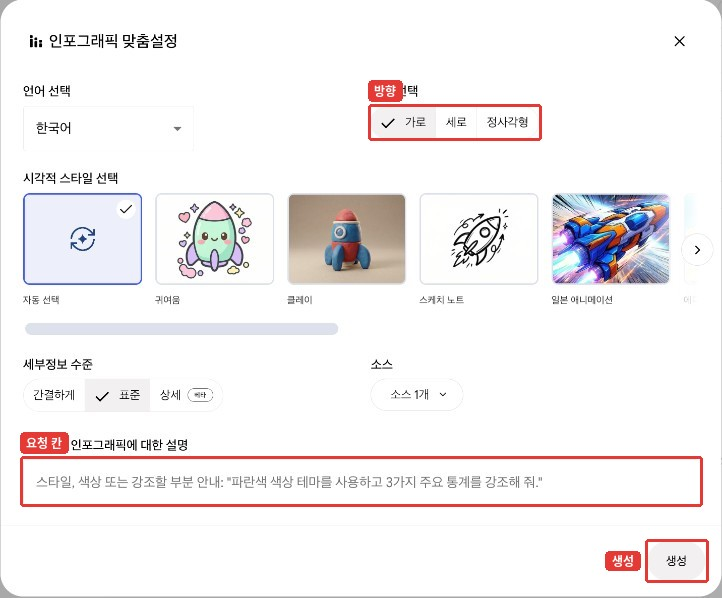
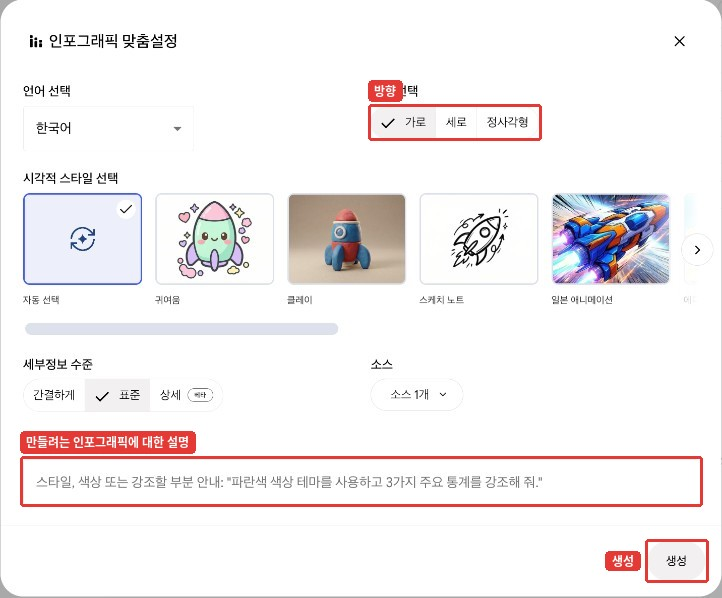
261019 ChatGPT판: 체크리스트 전부 삭제, 구조·기준·진행표·문구 불일치 수정
Claude-Session: https://claude.ai/code/session_01T8rxqCJjyJ7JfxFAjQgpPQ

Changed region(s): [[0.0305, 0.7224, 0.2742, 0.7826]]

diff --git a/261019-ai-report-chatgpt/index.html b/261019-ai-report-chatgpt/index.html
@@ -283,7 +283,7 @@ aside nav a.active{border-left-color:var(--blue)}
 <div class="side-sub">10.19(월) · 10.22(목) · 10:00–17:00</div>
 </div>
 <nav>
-<div class="nav-title">전체 목차</div><div class="grp"><div class="grp-label">교육 안내</div><a class="l2" href="#overview">교육 개요</a><a class="l2" href="#prep">수업 전 준비</a><a class="l3" href="#prep-1">실습 파일</a><a class="l2" href="#timetable">타임테이블</a></div><div class="grp"><div class="grp-label">세션 1</div><a class="l2" href="#s1">생성형 AI와 문서 작성 개요</a><a class="l3" href="#s1-1">1-1. 시작 전: ChatGPT 화면 살펴보고 맞추기</a><a class="l3" href="#s1-2">1-2. 기존 문서 작성 vs AI 활용 비교</a><a class="l3" href="#s1-3">1-3. 공공기관 업무에 맞는 AI 도구</a><a class="l3" href="#s1-4">1-4. AI에게 쉽게 말 걸기: 역할·맥락·작업·형식</a></div><div class="grp"><div class="grp-label">세션 2</div><a class="l2" href="#s2">웹 브라우징 &amp; 긴 문서 파일 분석</a><a class="l3" href="#s2-1">2-1. [웹 검색]으로 최근 정책·동향 수집</a><a class="l3" href="#s2-2">2-2. PDF·한글·엑셀 파일 첨부하고 핵심 3줄 요약받기</a><a class="l3" href="#s2-3">2-3. 출처 확인과 환각(Hallucination) 방지 기초</a></div><div class="grp"><div class="grp-label">세션 3</div><a class="l2" href="#s3">Projects 기능 &amp; 공공 행정 문체 변환</a><a class="l3" href="#s3-1">3-1. 보고서·기획서 기본 구조</a><a class="l3" href="#s3-2">3-2. Projects로 자주 쓰는 지침 고정하기</a><a class="l3" href="#s3-3">3-3. 보고서 뼈대(서론-본론-결론) 자동 생성</a><a class="l3" href="#s3-4">3-4. 개조식 문체·표준 서식으로 교정하고 Word·PDF로 받기</a><a class="l3" href="#s3-5">3-5. 섹션 간 일관성 점검</a></div><div class="grp"><div class="grp-label">세션 4</div><a class="l2" href="#s4">데이터 분석 &amp; 인포그래픽 변환</a><a class="l3" href="#s4-1">4-1. 데이터 파일 올리고 시트 화면으로 보기</a><a class="l3" href="#s4-2">4-2. 데이터 요약: 점검 후 자주 쓰는 분석 4가지</a><a class="l3" href="#s4-3">4-3. 보고서 삽입용 깔끔한 표·차트 구성법</a><a class="l3" href="#s4-4">4-4. 글을 인포그래픽·도식으로 바꾸기 (NotebookLM)</a></div><div class="grp"><div class="grp-label">세션 5</div><a class="l2" href="#s5">가이드 기반 실무 기획서 제작 실습</a><a class="l3" href="#s5-1">5-1. 실무 예시 주제 정하고 업무 흐름 스케치하기</a><a class="l3" href="#s5-2">5-2. 3단계로 진행하기: 자료 수집·요약 → 초안 → 문체·시각화</a><a class="l3" href="#s5-3">5-3. 단계별 템플릿</a><a class="l3" href="#s5-4">5-4. 제출 전 체크리스트</a></div><div class="grp"><div class="grp-label">세션 6</div><a class="l2" href="#s6">결과 발표 및 피드백</a><a class="l3" href="#s6-1">6-1. 3분 발표 구성</a><a class="l3" href="#s6-2">6-2. 실무 적용 시 주의사항: 보안·개인정보(PII)</a><a class="l3" href="#s6-3">6-3. 피드백 기준 · Q&amp;A · 총평</a></div>
+<div class="nav-title">전체 목차</div><div class="grp"><div class="grp-label">교육 안내</div><a class="l2" href="#overview">교육 개요</a><a class="l2" href="#prep">수업 전 준비</a><a class="l3" href="#prep-1">실습 파일</a><a class="l2" href="#timetable">타임테이블</a></div><div class="grp"><div class="grp-label">세션 1</div><a class="l2" href="#s1">생성형 AI와 문서 작성 개요</a><a class="l3" href="#s1-1">1-1. 시작 전: ChatGPT 화면 살펴보고 맞추기</a><a class="l3" href="#s1-2">1-2. 기존 문서 작성 vs AI 활용 비교</a><a class="l3" href="#s1-3">1-3. 공공기관 업무에 맞는 AI 도구</a><a class="l3" href="#s1-4">1-4. AI에게 쉽게 말 걸기: 역할·맥락·작업·형식</a></div><div class="grp"><div class="grp-label">세션 2</div><a class="l2" href="#s2">웹 브라우징 &amp; 긴 문서 파일 분석</a><a class="l3" href="#s2-1">2-1. [웹 검색]으로 최근 정책·동향 수집</a><a class="l3" href="#s2-2">2-2. PDF·한글·엑셀 파일 첨부하고 핵심 3줄 요약받기</a><a class="l3" href="#s2-3">2-3. 출처 확인과 환각(Hallucination) 방지 기초</a></div><div class="grp"><div class="grp-label">세션 3</div><a class="l2" href="#s3">Projects 기능 &amp; 공공 행정 문체 변환</a><a class="l3" href="#s3-1">3-1. 보고서·기획서 기본 구조</a><a class="l3" href="#s3-2">3-2. Projects로 자주 쓰는 지침 고정하기</a><a class="l3" href="#s3-3">3-3. 보고서 뼈대(서론-본론-결론) 자동 생성</a><a class="l3" href="#s3-4">3-4. 개조식 문체·표준 서식으로 교정하고 Word·PDF로 받기</a><a class="l3" href="#s3-5">3-5. 섹션 간 일관성 점검</a></div><div class="grp"><div class="grp-label">세션 4</div><a class="l2" href="#s4">데이터 분석 &amp; 인포그래픽 변환</a><a class="l3" href="#s4-1">4-1. 데이터 파일 올리고 시트 화면으로 보기</a><a class="l3" href="#s4-2">4-2. 데이터 요약: 점검 후 자주 쓰는 분석 4가지</a><a class="l3" href="#s4-3">4-3. 보고서 삽입용 깔끔한 표·차트 구성법</a><a class="l3" href="#s4-4">4-4. 글을 인포그래픽·도식으로 바꾸기 (NotebookLM)</a></div><div class="grp"><div class="grp-label">세션 5</div><a class="l2" href="#s5">가이드 기반 실무 기획서 제작 실습</a><a class="l3" href="#s5-1">5-1. 실무 예시 주제 정하고 업무 흐름 스케치하기</a><a class="l3" href="#s5-2">5-2. 3단계로 진행하기: 자료 수집·요약 → 초안 → 문체·시각화</a><a class="l3" href="#s5-3">5-3. 단계별 템플릿</a></div><div class="grp"><div class="grp-label">세션 6</div><a class="l2" href="#s6">결과 발표 및 피드백</a><a class="l3" href="#s6-1">6-1. 3분 발표 구성</a><a class="l3" href="#s6-2">6-2. 실무 적용 시 주의사항: 보안·개인정보(PII)</a><a class="l3" href="#s6-3">6-3. 피드백 기준 · Q&amp;A · 총평</a></div>
 </nav>
 <div class="side-foot">ChatGPT 유료(Plus 이상) · 공공데이터로 실습<a class="side-link" href="https://loreenkim0301.github.io/swy-lecturenote/261019-ai-report-chatgpt/">loreenkim0301.github.io/swy-lecturenote/261019-ai-report-chatgpt/</a></div>
 </aside>
@@ -385,7 +385,7 @@ aside nav a.active{border-left-color:var(--blue)}
 <div class="table-wrap"><table>
 <tr><th>기능</th><th>이럴 때 써요</th><th>오늘 쓰는 세션</th></tr>
 <tr><td>ChatGPT [웹 검색]</td><td>최근 정책·동향을 출처 링크와 함께 찾을 때</td><td>세션 2, 5</td></tr>
-<tr><td>ChatGPT 파일 첨부</td><td>PDF·한글·엑셀 파일을 요약하거나 숫자를 찾을 때</td><td>세션 2, 3, 5</td></tr>
+<tr><td>ChatGPT 파일 첨부</td><td>PDF·한글·엑셀·CSV 파일을 요약하거나 분석할 때</td><td>세션 2, 4</td></tr>
 <tr><td>ChatGPT Projects</td><td>자주 쓰는 지침과 자료를 한곳에 고정해 두고 계속 쓸 때</td><td>세션 3, 5</td></tr>
 <tr><td>ChatGPT 데이터 분석</td><td>표 데이터를 점검·집계하고 차트를 만들 때</td><td>세션 4</td></tr>
 <tr><td>ChatGPT Word·PDF 파일 만들기</td><td>완성한 보고서를 내려받을 수 있는 파일로 받을 때</td><td>세션 3, 5</td></tr>
@@ -406,7 +406,6 @@ aside nav a.active{border-left-color:var(--blue)}
 작업: 위 내용으로 주간 업무 보고서 초안을 써 줘. 내가 준 내용에 없는 일이나 숫자는 추가하지 마.
 형식: 개조식, A4 반 쪽 이내. 항목은 '추진 실적 / 다음 주 계획 / 건의 사항' 순서로, 내용이 없는 칸은 [확인 필요]로 남겨 줘.</pre></div>
 <figure class="sample-shot"><img alt="4요소 프롬프트 결과. 추진 실적 3개, 다음 주 계획 1개, 건의 사항은 확인 필요" height="665" loading="lazy" src="./images/c1-prompt-b.jpg" width="1176"/><figcaption>준 내용만 쓰고, 없는 건의 사항은 [확인 필요]로 남겼어요</figcaption></figure>
-<div class="result-check"><b>결과 확인</b><ul class="checklist"><li>내가 주지 않은 업무나 숫자가 들어가지 않았나요?</li><li>내용이 없는 칸이 [확인 필요]로 남았나요?</li><li>제목과 아래 줄이 같은 말을 반복하지 않나요? (위 결과처럼 "민원 응대 매뉴얼 개정 → 민원 응대 매뉴얼 개정 초안 작성") 반복되면 "중복 표현을 정리해 줘"라고 이어서 요청해요.</li></ul></div>
 </div>
 </section>
 
@@ -421,11 +420,10 @@ aside nav a.active{border-left-color:var(--blue)}
 형식: 5줄 글머리표. 줄마다 끝에 (기관명, 발표일, 링크)를 달아 줘.</pre></div>
 <figure class="sample-shot"><img alt="웹 검색을 켜고 4요소 프롬프트를 입력한 화면" height="665" loading="lazy" src="./images/c2-web-prompt.jpg" width="1176"/><figcaption>[웹 검색]을 켜면 입력창 앞에 "웹 검색"이 붙어요</figcaption></figure>
 <figure class="sample-shot"><img alt="웹 검색 결과. 소상공인 체감 경기동향지수 등 5줄 요약과 줄마다 중소벤처기업부 원문 링크" height="665" loading="lazy" src="./images/c2-web-result.jpg" width="1176"/><figcaption>결과: 줄마다 기관명·발표일과 [원문] 링크가 붙어요 (2026년 10월 15일 Plus 계정 실제 실행 화면)</figcaption></figure>
-<div class="result-check"><b>결과 확인</b><ul class="checklist"><li>[원문] 링크를 2개 이상 직접 열어 봤나요?</li><li>5줄의 출처가 모두 한 기관·한 자료에서 왔다면, 다른 기관 자료도 찾아 달라고 했나요?</li><li>발표일이 요청한 기간(최근 3개월) 안에 있나요?</li><li>숫자가 들어간 줄은 2-3에서 따로 확인할 거리로 표시했나요?</li></ul></div>
 </div>
 
 <div class="topic" id="s2-2"><h3>2-2. PDF·한글·엑셀 파일 첨부하고 핵심 3줄 요약받기</h3>
-<p>긴 문서를 다 읽지 않고도 핵심을 먼저 잡아요. 같은 프롬프트 틀로 세 가지 형식의 파일을 하나씩 올려 봐요.</p>
+<p>긴 문서를 다 읽지 않고도 핵심을 먼저 잡아요. 역할·맥락·작업·형식 4요소로 세 가지 형식의 파일을 하나씩 올려 요약하고, PDF에서는 숫자의 기준 날짜까지 확인해요.</p>
 <div class="dl-list">
 <a class="dl-card" download="" href="./data/daily_econ_20261014.hwp"><span class="dl-ico">HWP</span><span class="dl-body"><b>daily_econ_20261014.hwp</b><span>일일경제지표(26.10.14) 한글 원본</span><span>실습 ①</span></span><span class="dl-btn">⬇ 다운로드</span></a>
 <a class="dl-card" download="" href="./data/daily_econ_20261014.pdf"><span class="dl-ico">PDF</span><span class="dl-body"><b>daily_econ_20261014.pdf</b><span>같은 내용의 PDF 2쪽</span><span>실습 ②</span></span><span class="dl-btn">⬇ 다운로드</span></a>
@@ -477,7 +475,6 @@ aside nav a.active{border-left-color:var(--blue)}
 형식: 판정(사실 / 일부 사실 / 확인 불가) 한 줄, 근거가 된 출처 2개 이상(기관명·발표일·링크), 원문에서 가져온 문장 1줄</pre></div>
 <figure class="sample-shot"><img alt="검증 결과. 판정 일부 사실, 기관 게시 페이지와 언론 보도의 숫자가 서로 다름" height="665" loading="lazy" src="./images/c2-fact-verdict.jpg" width="1176"/><figcaption>예시: 같은 9월 지표인데 기관 게시 페이지와 언론 보도의 숫자가 서로 달라 "일부 사실"로 판정했어요</figcaption></figure>
 <figure class="sample-shot"><img alt="검증상 주의. 첨부 PDF 본문까지 열어 대조하지 못했다고 밝힘" height="665" loading="lazy" src="./images/c2-fact-caution.jpg" width="1176"/><figcaption>AI가 "첨부 PDF 본문까지는 열어 보지 못했다"고 스스로 밝혀요. 이럴 때는 기관 원문 PDF를 내가 직접 열어 확인해요</figcaption></figure>
-<div class="result-check"><b>환각을 줄이는 습관</b><ul class="checklist"><li>프롬프트에 "자료에 없는 숫자는 쓰지 마, [확인 필요]로 남겨"를 넣었나요?</li><li>숫자마다 기준 날짜와 출처를 함께 받았나요?</li><li>보고서에 넣을 숫자는 기관 원문(PDF·게시 페이지)을 직접 열어 대조했나요?</li><li>출처끼리 숫자가 다르면 보고서에서 빼거나, 확인된 원문의 숫자만 남겼나요?</li></ul></div>
 </div>
 </section>
 
@@ -486,15 +483,16 @@ aside nav a.active{border-left-color:var(--blue)}
 <div class="topic" id="s3-1"><h3>3-1. 보고서·기획서 기본 구조</h3>
 <p>보고서는 있었던 일을 <b>근거로 전달</b>하고, 기획서는 앞으로 할 일을 <b>설득</b>해요. 목적이 다르니 뼈대도 달라요.</p>
 <div class="table-wrap"><table>
-<tr><th>문서</th><th>구성</th><th>각 부분에 쓰는 것</th></tr>
-<tr><td rowspan="3">보고서</td><td>서론</td><td>왜 쓰는지(목적), 무엇을 다루는지(범위·기간)</td></tr>
-<tr><td>본론</td><td>자료와 분석 결과, 표·차트 같은 근거</td></tr>
-<tr><td>결론</td><td>핵심 결과 한 줄, 다음에 할 일 제안</td></tr>
-<tr><td rowspan="3">기획서</td><td>목표</td><td>무엇을 언제까지 얼마나 이루려는지</td></tr>
-<tr><td>전략</td><td>현황과 문제, 그래서 어떤 방향으로 갈지</td></tr>
-<tr><td>제안</td><td>실행 방안, 필요한 자원, 기대 효과와 일정</td></tr>
+<tr><th>문서</th><th>구성</th><th>각 부분에 쓰는 것</th><th>공공기관 서식 항목</th></tr>
+<tr><td rowspan="3">보고서</td><td>서론</td><td>왜 쓰는지(목적), 무엇을 다루는지(범위·기간)</td><td>개요</td></tr>
+<tr><td>본론</td><td>자료와 분석 결과, 표·차트 같은 근거</td><td>현황 · 문제점</td></tr>
+<tr><td>결론</td><td>핵심 결과 한 줄, 다음에 할 일 제안</td><td>개선방안 · 향후 계획</td></tr>
+<tr><td rowspan="3">기획서</td><td>배경</td><td>현황과 문제, 왜 지금 해야 하는지</td><td>추진 배경</td></tr>
+<tr><td>목표</td><td>무엇을 언제까지 얼마나 이루려는지</td><td>목표</td></tr>
+<tr><td>실행</td><td>실행 방안, 기대 효과, 일정</td><td>추진 내용 · 기대 효과 · 추진 일정</td></tr>
 </table></div>
-<p><b>섹션 간 논리 연결을 지키는 네 가지 기준</b>: ① 서론의 목적에 결론이 직접 답하나요? ② 결론의 숫자가 본론의 표·차트 숫자와 같나요? ③ 같은 대상을 같은 이름으로 부르나요? ④ 각 섹션 첫 문장이 앞 섹션과 이어지나요?</p>
+<p>3-3에서는 서론·본론·결론으로 뼈대를 잡고, 3-4에서 오른쪽 열의 공공기관 서식 항목으로 바꿔요. 3-2의 프로젝트 지침도 오른쪽 열 순서를 따라요.</p>
+<p><b>섹션 간 논리 연결을 지키는 네 가지 기준</b>: ① 서론(개요)의 목적에 결론(향후 계획)이 직접 답해요. ② 본론에서 문제점의 숫자가 현황의 숫자와 같아요. ③ 같은 대상을 끝까지 같은 이름으로 불러요. ④ 숫자마다 기준 날짜가 맞게 적혀 있어요.</p>
 </div>
 
 <div class="topic" id="s3-2"><h3>3-2. Projects로 자주 쓰는 지침 고정하기</h3>
@@ -542,15 +540,15 @@ aside nav a.active{border-left-color:var(--blue)}
 <div class="copybox"><div class="copyhead"><span>프롬프트 · 복사해서 사용하세요</span><button type="button">복사</button></div><pre>역할: 너는 부서장 보고용 문서를 다듬는 담당자야.
 맥락: 위 뼈대를 부서장에게 올릴 1쪽 보고서로 완성하려고 해.
 작업: 표를 풀어 '개요 - 현황 - 문제점 - 개선방안 - 향후 계획' 순서의 개조식 보고서로 바꿔 줘. 숫자는 위 표에 있는 것만 쓰고, 표에 없는 개선방안·일정·담당자는 [확인 필요]로 남겨 줘.
-형식: 내려받을 수 있는 Word(.docx) 파일 1개, A4 1쪽, 제목은 '[최근 생활밀접업종 사업자 변화 보고]'</pre></div>
+형식: 내려받을 수 있는 Word(.docx) 파일 1개, A4 1쪽, 제목은 '최근 생활밀접업종 사업자 변화 보고'</pre></div>
 <figure class="sample-shot"><img alt="Word 파일 카드. 최근 생활밀접업종 사업자 변화 보고.docx, Word 보고서 내려받기 링크" height="620" loading="lazy" src="./images/c3-word-card.jpg" width="1176"/><figcaption>답 아래에 Word 파일 카드가 생겨요</figcaption></figure>
 <div class="procedure"><div>[Word 보고서 내려받기]를 누르면 오른쪽에 미리보기가 열려요.</div><div>미리보기 오른쪽 위 다운로드 아이콘 → <b>[Word(DOCX)]</b>를 눌러 내려받아요.</div></div>
 <div class="shot-grid"><figure class="sample-shot"><img alt="오른쪽 미리보기에 열린 개조식 보고서. 개요, 현황, 문제점, 개선방안, 향후 계획" height="620" loading="lazy" src="./images/c3-word-preview.jpg" width="1176"/><figcaption>미리보기: □ 개요 → □ 현황 → □ 문제점 → □ 개선방안 → □ 향후 계획</figcaption></figure><figure class="sample-shot"><img alt="미리보기 다운로드 메뉴. Word(DOCX)" height="400" loading="lazy" src="./images/c3-word-download.png" width="840"/><figcaption>다운로드 → Word(DOCX)</figcaption></figure></div>
+<p>내려받은 파일 이름이 %EC%B5…처럼 깨져 보이면 알아보기 쉬운 이름으로 바꿔 저장해요.</p>
 <p>PDF가 필요하면 같은 대화에서 이어서 보내요.</p>
 <div class="copybox"><div class="copyhead"><span>프롬프트 · 복사해서 사용하세요</span><button type="button">복사</button></div><pre>작업: 같은 보고서를 PDF 파일로도 만들어 줘. 내용과 숫자는 바꾸지 마.
 형식: 내려받을 수 있는 PDF 파일 1개, A4 1쪽</pre></div>
 <div class="shot-grid"><figure class="sample-shot"><img alt="PDF 파일 카드. 최근 생활밀접업종 사업자 변화 보고.pdf" height="620" loading="lazy" src="./images/c3-pdf-card.jpg" width="1176"/><figcaption>PDF 파일 카드</figcaption></figure><figure class="sample-shot"><img alt="PDF 미리보기. Word와 같은 내용의 개조식 보고서" height="620" loading="lazy" src="./images/c3-pdf-preview.jpg" width="1176"/><figcaption>PDF 미리보기</figcaption></figure></div>
-<div class="result-check"><b>결과 확인</b><ul class="checklist"><li>Word와 PDF의 숫자가 뼈대 표의 숫자와 같나요?</li><li>[확인 필요] 칸을 내가 채우거나 지웠나요?</li><li>내려받은 파일 이름이 %EC%B5…처럼 깨져 보이면 알아보기 쉬운 이름으로 바꿨나요?</li><li>한글(.hwp) 문서가 필요하면 Word 파일을 한글 프로그램에서 열어 다른 이름으로 저장해요.</li></ul></div>
 </div>
 
 <div class="topic" id="s3-5"><h3>3-5. 섹션 간 일관성 점검</h3>
@@ -650,9 +648,9 @@ aside nav a.active{border-left-color:var(--blue)}
 </div>
 
 <div class="topic" id="s4-3"><h3>4-3. 보고서 삽입용 깔끔한 표·차트 구성법</h3>
-<p>차트 종류는 <b>무엇을 보여 주고 싶은지</b>로 골라요.</p>
+<p>차트 종류는 <b>무엇을 보여 주고 싶은지</b>로 골라요. 실습은 첫 줄의 가로 막대로 하고, 나머지 두 가지는 같은 프롬프트에서 차트 종류와 분석 번호만 바꿔 만들어요.</p>
 <div class="table-wrap"><table>
-<tr><th>보여 주고 싶은 것</th><th>어울리는 차트</th><th>오늘 예시</th></tr>
+<tr><th>보여 주고 싶은 것</th><th>어울리는 차트</th><th>예시</th></tr>
 <tr><td>항목끼리 크기 비교</td><td>가로 막대</td><td>시도별 사업자 수 상위 5</td></tr>
 <tr><td>늘어난 것과 줄어든 것</td><td>0을 기준으로 한 막대</td><td>업종 증가·감소 상위 3</td></tr>
 <tr><td>전체 중 비중</td><td>누적 막대 또는 원</td><td>업종별 비중 상위 5</td></tr>
@@ -660,9 +658,8 @@ aside nav a.active{border-left-color:var(--blue)}
 <div class="copybox"><div class="copyhead"><span>프롬프트 · 복사해서 사용하세요</span><button type="button">복사</button></div><pre>역할: 너는 보고서용 그림을 만드는 담당자야.
 맥락: 분석 1의 시도별 당월 사업자 수 상위 5개 결과로 보고서에 넣을 차트가 필요해.
 작업: 가로 막대 차트를 만들어 줘. 숫자는 분석 1 결과만 쓰고 바꾸지 마.
-형식: 제목 "시도별 생활업종 사업자 수(2026년 7월, 상위 5)", 막대 끝에 사업자 수 표시, 단위는 '개'로 통일, 이미지 파일로 저장</pre></div>
+형식: 제목 "시도별 생활업종 사업자 수(2026년 7월, 상위 5)", 막대 끝에 사업자 수 표시, 단위는 '개'로 통일</pre></div>
 <figure class="sample-shot"><img alt="시도별 생활업종 사업자 수 가로 막대 차트. 막대 끝에 832,486 등 숫자, 왼쪽 아래 편집 버튼" height="665" loading="lazy" src="./images/c4-chart.jpg" width="1176"/><figcaption>결과: 막대 끝에 숫자가 붙은 가로 막대 차트가 나와요. 막대 순서와 숫자를 분석 1 기준값과 대조해요</figcaption></figure>
-<div class="result-check"><b>보고서에 넣기 전 확인</b><ul class="checklist"><li>막대 순서와 막대 끝 숫자가 분석 1 기준값과 같나요?</li><li>한글이 깨지면 "한글이 보이도록 다시 그려 줘"라고 요청했나요?</li><li>축과 막대 숫자의 단위가 섞이지 않았나요? (예: 축은 '만 개', 막대는 '개')</li><li>표에는 단위와 기준 시점(2026년 7월), 출처(국세청)를 적었나요?</li></ul></div>
 </div>
 
 <div class="topic" id="s4-4"><h3>4-4. 글을 인포그래픽·도식으로 바꾸기 (NotebookLM)</h3>
@@ -675,9 +672,9 @@ aside nav a.active{border-left-color:var(--blue)}
 <figure class="sample-shot"><img alt="글쓰기 블록에 제목, 핵심 메시지 3개와 근거 숫자, 출처 1줄" height="665" loading="lazy" src="./images/c4-infotext.jpg" width="1176"/><figcaption>결과: 글쓰기 블록으로 나와요. 오른쪽 위 복사 버튼으로 글 전체를 복사해 STEP 2에 붙여 넣어요</figcaption></figure>
 <p>근거 숫자가 위 기준값과 같은지 확인해요. 예를 들어 "수도권 비중 45.85%"는 경기도 26.58%와 서울특별시 19.27%를 더한 값이에요.</p>
 <p><b>STEP 2. NotebookLM에서 인포그래픽 만들기</b></p>
-<div class="procedure"><div><a href="https://notebooklm.google.com" rel="noopener" target="_blank">notebooklm.google.com</a>에서 [새 노트북 만들기]를 눌러요.</div><div>소스 추가에서 <b>[복사한 텍스트]</b>를 고르고 STEP 1의 글을 붙여 넣어요.</div><div>오른쪽 <b>Studio</b> 패널에서 [인포그래픽]을 누르고, 요청 칸에 "숫자와 단어는 원문 그대로 써 줘."라고 적은 뒤 만들어요.</div></div>
-<div class="shot-grid"><figure class="sample-shot"><img alt="NotebookLM 인포그래픽 설정 창. 방향, 자세한 정도, 요청 칸" loading="lazy" src="./images/s5-4-infographic-settings.jpg"/><figcaption>NotebookLM 인포그래픽 설정 (10/14 교안 실습 화면)</figcaption></figure><figure class="sample-shot"><img alt="NotebookLM이 만든 인포그래픽 예시" loading="lazy" src="./images/s5-4-infographic-result.jpg"/><figcaption>결과 예시 (10/14 교안 실습 화면, 다른 데이터)</figcaption></figure></div>
-<div class="warning"><b>그림 속 숫자와 단어를 원문과 대조해요.</b> AI가 그림을 만들면서 표현을 바꾸거나 숫자를 반올림하기도 해요. 다르면 요청 칸에 "숫자와 단어는 원문 그대로 써 줘"를 넣어 다시 만들어요.</div>
+<div class="procedure"><div><a href="https://notebooklm.google.com" rel="noopener" target="_blank">notebooklm.google.com</a>에서 [새 노트북 만들기]를 눌러요.</div><div>소스 추가에서 <b>[복사한 텍스트]</b>를 고르고 STEP 1의 글을 붙여 넣어요.</div><div>오른쪽 <b>Studio</b> 패널에서 [인포그래픽]을 누르고, <b>[만들려는 인포그래픽에 대한 설명]</b> 칸에 "숫자와 단어는 원문 그대로 써 줘."라고 적고 [생성]을 눌러요.</div></div>
+<div class="shot-grid"><figure class="sample-shot"><img alt="NotebookLM 인포그래픽 맞춤설정 창. 방향 선택, 세부정보 수준, 만들려는 인포그래픽에 대한 설명 칸, 생성 버튼" loading="lazy" src="./images/s5-4-infographic-settings.jpg"/><figcaption>NotebookLM 인포그래픽 설정 (10/14 교안 실습 화면)</figcaption></figure><figure class="sample-shot"><img alt="NotebookLM이 만든 인포그래픽 예시" loading="lazy" src="./images/s5-4-infographic-result.jpg"/><figcaption>결과 예시 (10/14 교안 실습 화면, 다른 데이터)</figcaption></figure></div>
+<div class="warning"><b>그림 속 숫자와 단어를 원문과 대조해요.</b> AI가 그림을 만들면서 표현을 바꾸거나 숫자를 반올림하기도 해요. 다르면 [만들려는 인포그래픽에 대한 설명] 칸의 요청을 더 구체적으로 바꿔 다시 만들어요.</div>
 </div>
 </section>
 
@@ -692,17 +689,17 @@ aside nav a.active{border-left-color:var(--blue)}
 <tr><td>보고서</td><td>우리 부서 3분기 사업 추진 실적</td><td>팀장, 부서장</td></tr>
 <tr><td>보고서</td><td>최근 생활밀접업종 변화와 지역 사업주 지원 시사점 (오늘 실습 데이터 활용)</td><td>기획부서</td></tr>
 </table></div>
-<p>주제를 정했다면 메모장에 세 줄을 적어요: ① 누가 읽나 ② 읽고 나서 무엇을 결정해야 하나 ③ 꼭 들어가야 할 숫자나 자료. 그리고 이 문서를 만드는 내 업무 순서를 <b>파악 → 정리 → 요약 → 분석 → 보고</b> 다섯 칸으로 나눠 적고, 어느 칸을 AI에게 맡길지 표시해요.</p>
+<p>주제를 정했다면 메모장에 세 줄을 적어요: ① 누가 읽나 ② 읽고 나서 무엇을 결정해야 하나 ③ 꼭 들어가야 할 숫자나 자료.</p>
 <div class="warning"><b>기관 내부 자료와 개인정보는 올리지 마세요.</b> 실제 업무 자료가 필요하면 이름·연락처·주민번호·금액 같은 값을 가상 값으로 바꿔서 올려요.</div>
 </div>
 
 <div class="topic" id="s5-2"><h3>5-2. 3단계로 진행하기: 자료 수집·요약 → 초안 → 문체·시각화</h3>
 <div class="table-wrap"><table>
 <tr><th>시간</th><th>단계</th><th>쓰는 기능</th><th>참고</th></tr>
-<tr><td>14:30–14:40</td><td>주제·독자·목적 세 줄과 업무 흐름 정하기</td><td>메모장</td><td>5-1</td></tr>
-<tr><td>14:40–15:10</td><td><b>Step 1</b> 자료 수집·요약</td><td>[웹 검색], 파일 첨부</td><td>2-1, 2-2, 2-3</td></tr>
+<tr><td>14:30–14:40</td><td>주제·독자·결정할 것 세 줄 정하기</td><td>메모장</td><td>5-1</td></tr>
+<tr><td>14:40–15:10</td><td><b>Step 1</b> 자료 수집·요약, 숫자 확인</td><td>[웹 검색]</td><td>2-1, 2-3</td></tr>
 <tr><td>15:10–15:35</td><td><b>Step 2</b> 기획서 초안</td><td>Projects</td><td>3-2, 3-3</td></tr>
-<tr><td>15:35–16:00</td><td><b>Step 3</b> 문체·시각화 완성, Word·PDF 받기</td><td>Projects, 차트, NotebookLM</td><td>3-4, 3-5, 4-3, 4-4</td></tr>
+<tr><td>15:35–16:00</td><td><b>Step 3</b> 표 넣기, 일관성 점검, Word·PDF 받기</td><td>Projects, Word·PDF 파일</td><td>3-4, 3-5</td></tr>
 </table></div>
 </div>
 
@@ -714,7 +711,9 @@ aside nav a.active{border-left-color:var(--blue)}
 작업: 최근 1년 안에 정부·공공기관이 발표한 관련 자료를 찾아 기획서 '추진 배경'에 쓸 핵심 내용을 5줄로 요약해 줘. 출처를 찾지 못한 내용은 쓰지 마.
 형식: 5줄 글머리표, 줄마다 (기관명, 발표일, 링크)</pre></div>
 <figure class="sample-shot"><img alt="웹 검색 결과. 5줄 글머리표와 줄마다 기관명, 발표일, 보도자료 링크" height="665" loading="lazy" src="./images/c5-step1.jpg" width="1176"/><figcaption>예시 결과 (주제: 민원 응대 생성형 AI 시범 운영). 기획서에 옮기기 전에 [보도자료] 링크를 하나씩 열어 숫자와 날짜를 확인해요</figcaption></figure>
+<p>숫자가 들어간 줄은 2-3처럼 <b>새 채팅</b>에서 한 번 더 확인한 뒤 Step 2로 넘어가요.</p>
 <p><b>Step 2. 기획서 초안</b> (보고서 작성실 프로젝트의 새 채팅)</p>
+<div class="warning"><b>보고서 작성실에는 오전 실습 파일 2개가 소스로 올라가 있어요.</b> 주제가 생활업종·경제지표와 관계없다면 [소스] 탭에서 두 파일을 빼거나, 프로젝트를 새로 만들어 지침만 복사해 넣고 진행해요.</div>
 <div class="copybox"><div class="copyhead"><span>프롬프트 · 복사해서 사용하세요</span><button type="button">복사</button></div><pre>역할: 너는 공공기관 기획부서의 기획서 작성 담당자야.
 맥락: 주제는 [주제], 독자는 [독자]야. Step 1에서 모은 자료는 아래와 같아.
 [Step 1 결과 붙여넣기]
@@ -727,18 +726,14 @@ aside nav a.active{border-left-color:var(--blue)}
 [내가 확인한 숫자·일정·담당자]
 작업: 채운 내용을 반영하고, 핵심 숫자 1개를 보여 주는 표 1개를 '추진 배경'에 넣어 줘. 숫자는 바꾸지 마.
 형식: 내려받을 수 있는 Word(.docx) 파일 1개와 PDF 파일 1개</pre></div>
-<figure class="sample-shot"><img alt="Word 문서와 PDF 문서 다운로드 카드, 아래에 주요 반영 사항 목록" height="665" loading="lazy" src="./images/c5-step3.jpg" width="1176"/><figcaption>Step 3 결과: Word·PDF 카드 2개와 반영 사항 목록이 나와요. [다운로드]로 받은 뒤 3-4처럼 파일을 열어 확인해요</figcaption></figure>
+<figure class="sample-shot"><img alt="Word 문서와 PDF 문서 다운로드 카드, 아래에 주요 반영 사항 목록" height="665" loading="lazy" src="./images/c5-step3.jpg" width="1176"/><figcaption>Step 3 결과: Word·PDF 카드 2개와 반영 사항 목록이 나와요. [다운로드]로 받은 뒤 파일을 열어 확인해요</figcaption></figure>
+<p><b>Step 3 마무리. 일관성 점검</b> (같은 대화에서 이어서) — 3-5의 네 가지 기준을 기획서 항목 이름으로 바꾼 프롬프트예요.</p>
+<div class="copybox"><div class="copyhead"><span>프롬프트 · 복사해서 사용하세요</span><button type="button">복사</button></div><pre>역할: 너는 기획서를 검토하는 선임이야.
+맥락: 위에서 만든 기획서를 부서장에게 올리기 전에 마지막으로 점검하려고 해.
+작업: ① 목표에 추진 내용과 추진 일정이 답하는지 ② 기대 효과의 숫자가 추진 배경의 숫자와 같은지 ③ 같은 대상을 다른 이름으로 부른 곳이 있는지 ④ 숫자의 기준 날짜가 맞는지 점검해 줘. 문서는 고치지 말고 점검 결과만 알려 줘.
+형식: 기준 / 문제 위치 / 문제 내용 / 고칠 문장 제안 표</pre></div>
 </div>
 
-<div class="topic" id="s5-4"><h3>5-4. 제출 전 체크리스트</h3>
-<ul class="checklist">
-<li>목표(기획서) 또는 결론(보고서)이 맨 앞에 분명하게 있나요?</li>
-<li>모든 숫자에 출처와 기준 날짜가 있나요? [확인 필요]가 남아 있지 않나요?</li>
-<li>보고서에 넣을 숫자를 기관 원문과 한 번 이상 대조했나요?</li>
-<li>3-1의 섹션 간 논리 연결 네 가지 기준을 통과했나요?</li>
-<li>AI가 쓴 문장 중 내가 직접 고친 곳을 말할 수 있나요?</li>
-</ul>
-</div>
 </section>
 
 <section class="section session" id="s6"><div class="session-head"><div class="eyebrow">SESSION 6 · 16:00–17:00</div><h2>결과 발표 및 피드백</h2><p>완성한 보고서·기획서를 3분 동안 발표하고, 실무에 적용할 때 꼭 지킬 <b>보안·개인정보 주의사항</b>을 정리해요.</p></div>
@@ -754,13 +749,13 @@ aside nav a.active{border-left-color:var(--blue)}
 </div>
 
 <div class="topic" id="s6-2"><h3>6-2. 실무 적용 시 주의사항: 보안·개인정보(PII)</h3>
-<p><b>개인정보(PII)</b>는 이름, 연락처, 주민등록번호처럼 특정 사람을 알아볼 수 있는 정보예요. AI에 올리기 전에 아래 순서로 확인해요.</p>
-<ul class="checklist">
-<li>기관 보안 기준에서 이 도구와 이 자료를 써도 되는지 확인했나요?</li>
-<li>이름·연락처·주민등록번호·계좌번호 같은 개인정보를 지우거나 가상 값으로 바꿨나요?</li>
-<li>공개 전 내부 문서(예산안, 인사 자료 등)를 올리지 않았나요?</li>
-<li>업무 자료를 다루는 프로젝트는 [프로젝트 전용 메모리]로 만들었나요? (3-2)</li>
-</ul>
+<p><b>개인정보(PII)</b>는 이름, 연락처, 주민등록번호처럼 특정 사람을 알아볼 수 있는 정보예요. AI에 올리기 전에 아래 네 가지를 지켜요.</p>
+<ol>
+<li>기관 보안 기준에서 쓸 수 있는 도구와 올릴 수 있는 자료의 범위를 먼저 확인해요.</li>
+<li>이름·연락처·주민등록번호·계좌번호 같은 개인정보는 지우거나 가상 값으로 바꿔요.</li>
+<li>공개 전 내부 문서(예산안, 인사 자료 등)는 올리지 않아요.</li>
+<li>업무 자료를 다루는 프로젝트는 [프로젝트 전용 메모리]로 만들어요. (3-2)</li>
+</ol>
 <p><b>기록에 남기지 않고 묻고 싶을 때: 임시 채팅</b></p>
 <div class="procedure"><div>ChatGPT 첫 화면 오른쪽 위 <b>[임시 채팅]</b> 아이콘을 눌러요.</div><div>위쪽 [개인화됨]을 눌러 <b>[개인화되지 않음]</b>을 고르면 메모리·플러그인·사용자 지정 지침을 쓰지 않아요.</div></div>
 <div class="shot-grid"><figure class="sample-shot"><img alt="임시 채팅의 개인화 선택. 개인화됨, 개인화되지 않음 설명" height="665" loading="lazy" src="./images/c6-temp-menu.jpg" width="1176"/><figcaption>[개인화됨] / [개인화되지 않음] 선택</figcaption></figure><figure class="sample-shot"><img alt="개인화되지 않은 임시 채팅 화면. 아래에 30일간 보관 안내" height="665" loading="lazy" src="./images/c6-temp-off.jpg" width="1176"/><figcaption>화면 아래 "안전을 위해 이 채팅의 사본을 최대 30일간 보관할 수 있습니다" 안내</figcaption></figure></div>
